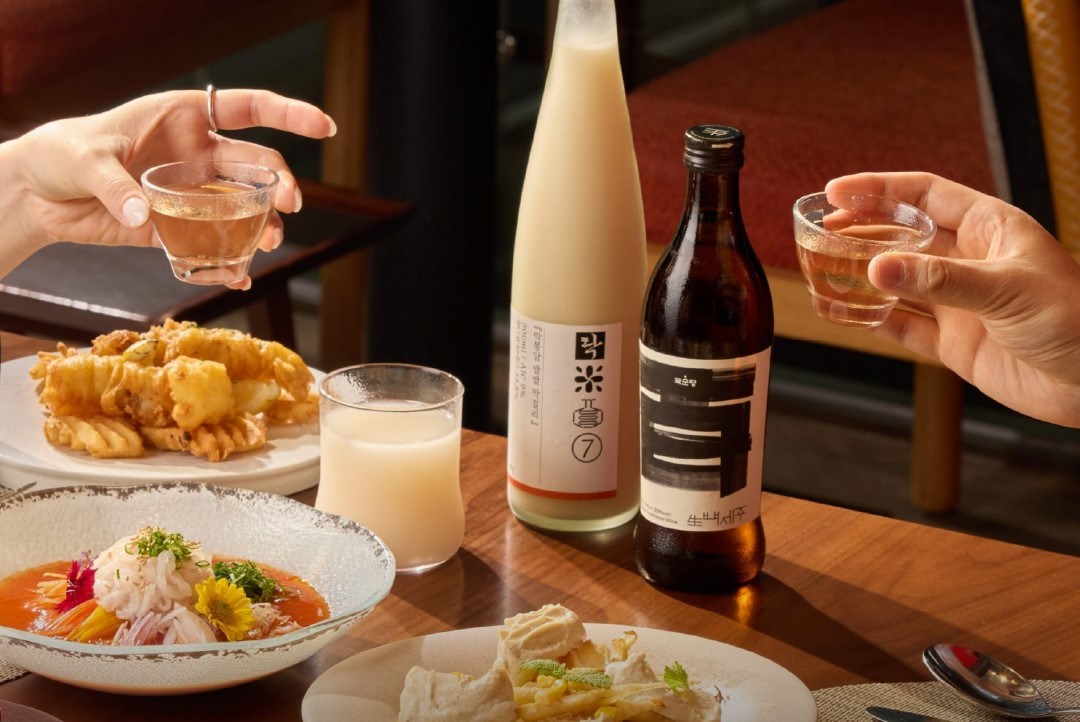
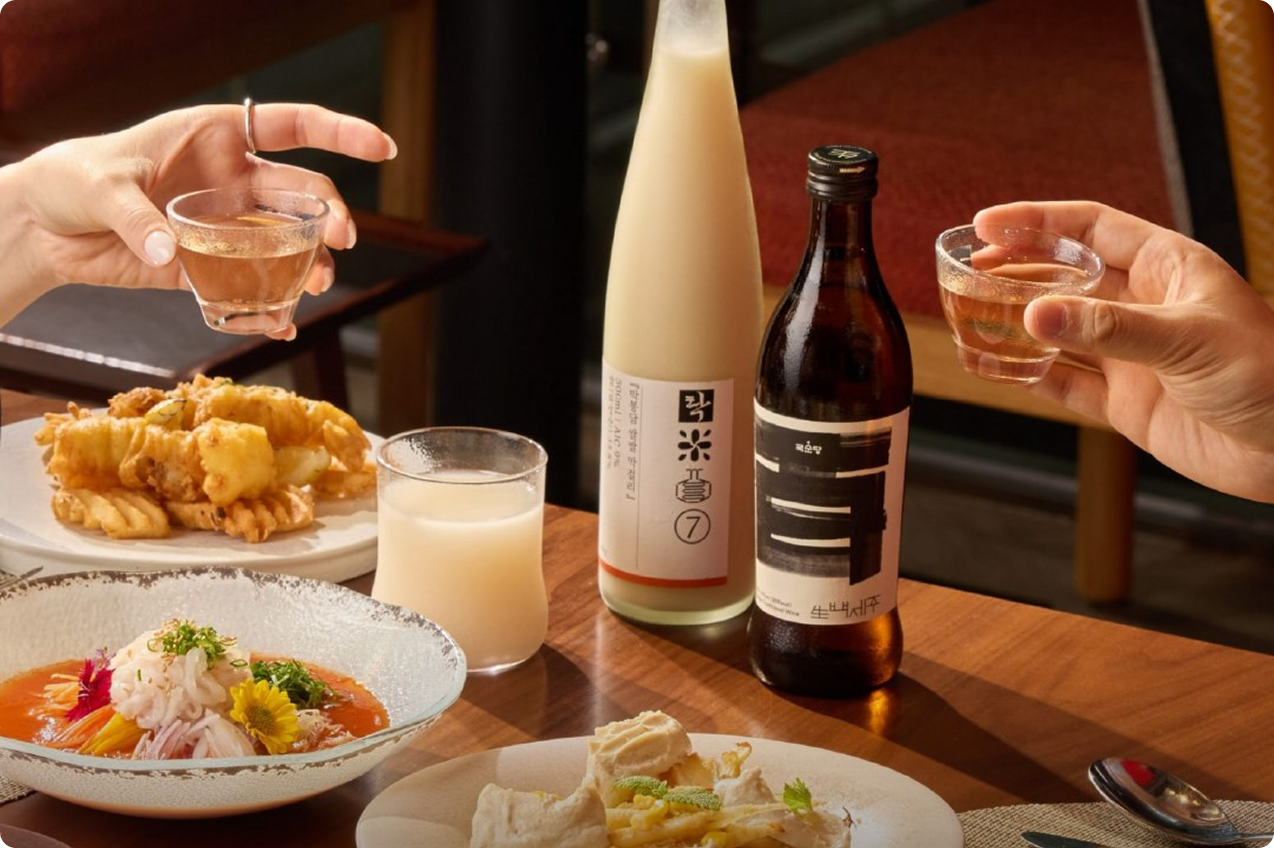
test12

diff --git a/css/test2.css b/css/test2.css
@@ -1,5 +1,7 @@
 @charset "UTF-8";
 
+@import url('https://fonts.googleapis.com/css2?family=Anek+Telugu:wght@800&display=swap');
+
 @font-face {
   font-family: 'ROH HOE-CHAN';
   src: url('https://cdn.jsdelivr.net/gh/projectnoonnu/noonfonts_20-10@1.0/ROEHOE-CHAN.woff') format('woff');
@@ -594,6 +596,8 @@ section[id] {
 .best_card_bekseju {
   left: 11.8%;
   top: 14.5%;
+  align-items: center;
+  padding-bottom: 0;
   background: var(--kooksoondang_orange);
   transform: rotate(-11.19deg);
 }
@@ -601,6 +605,8 @@ section[id] {
 .best_card_prebiotics {
   left: 48.8%;
   top: 15.1%;
+  align-items: center;
+  padding-bottom: 0;
   background: var(--kooksoondang_green);
   transform: rotate(8.77deg);
 }
@@ -608,6 +614,8 @@ section[id] {
 .best_card_banana {
   left: 85%;
   top: 17.7%;
+  align-items: center;
+  padding-bottom: 0;
   background: var(--card-banana-best);
   transform: rotate(-9.08deg);
 }
@@ -620,12 +628,30 @@ section[id] {
   transform: translateX(-50%);
   width: 90%;
   text-align: center;
-  font-weight: 700;
+  font-family: 'Anek Telugu', var(--font-Pretendard);
+  font-weight: 800;
   font-size: clamp(1.1rem, 1.9vw, 1.75rem);
   line-height: 0.95;
   letter-spacing: -0.02em;
   text-transform: uppercase;
   color: rgba(255, 255, 255, 0.3);
+}
+
+.best_card_bekseju .best_card_label,
+.best_card_prebiotics .best_card_label,
+.best_card_banana .best_card_label {
+  top: 50%;
+  transform: translate(-50%, -50%);
+  font-size: 70px;
+  text-align: center;
+}
+
+.best_card_prebiotics .best_card_label {
+  font-size: 60px;
+}
+
+.best_card_banana .best_card_label {
+  font-size: 45px;
 }
 
 .best_card_bottle {
@@ -635,6 +661,14 @@ section[id] {
   width: auto;
   object-fit: contain;
 }
+
+.best_card_bekseju .best_card_bottle,
+.best_card_prebiotics .best_card_bottle,
+.best_card_banana .best_card_bottle {
+  transform: scale(0.85);
+  transform-origin: center;
+}
+
 
 .best_card_shadow {
   position: absolute;
@@ -697,14 +731,38 @@ section[id] {
 }
 
 .marquee_track {
-  position: relative;
-  width: 100%;
+  display: flex;
+  flex: 0 0 auto;
+  align-items: center;
+  width: max-content;
   min-height: clamp(7rem, 8.25vw, 10.5rem);
+  animation: marquee_scroll 22s linear infinite;
+}
+
+/* 그룹 안쪽 간격과 그룹 끝 여백을 같게 두어 이어붙였을 때 간격이 일정하게 보임 */
+.marquee_group {
+  display: flex;
+  flex: 0 0 auto;
+  align-items: center;
+  gap: clamp(2rem, 4vw, 5rem);
+  padding-right: clamp(2rem, 4vw, 5rem);
+}
+
+.marquee:hover .marquee_track {
+  animation-play-state: paused;
+}
+
+/* 그룹 2개가 동일하므로 -50% 이동 시 이음매 없이 반복됨 */
+@keyframes marquee_scroll {
+  from {
+    transform: translateX(0);
+  }
+  to {
+    transform: translateX(-50%);
+  }
 }
 
 .marquee p {
-  position: absolute;
-  top: 50%;
   font-weight: 800;
   font-size: clamp(2.5rem, 5.7vw, 6.875rem);
   line-height: 1;
@@ -712,27 +770,18 @@ section[id] {
   text-transform: uppercase;
   color: var(--makgeolli_light2);
   white-space: nowrap;
-  transform: translateY(-50%);
-}
-
-.marquee p:first-child {
-  left: -0.5rem;
-  letter-spacing: -0.006em;
-}
-
-.marquee p:last-child {
-  left: 55.85%;
-  transform: translateY(-50%) scaleX(0.92);
-  transform-origin: left center;
 }
 
 .marquee img {
-  position: absolute;
-  top: 50%;
-  left: 46.8%;
   flex: 0 0 auto;
   width: clamp(4.5rem, 6.8vw, 8rem);
-  transform: translateY(calc(-50% - 6px)) rotate(-11.42deg);
+  transform: rotate(-11.42deg);
+}
+
+@media (prefers-reduced-motion: reduce) {
+  .marquee_track {
+    animation: none;
+  }
 }
 
 /* ---------- glass divider ---------- */

diff --git a/test2.html b/test2.html
@@ -85,7 +85,7 @@
                         <img class="best_card_bottle" src="asset/img/bekseju_bottle.png" alt="">
                     </div>
                     <div class="best_card best_card_prebiotics">
-                        <span class="best_card_label">100 Billion<br>Prebiotics<br>Makgeolli</span>
+                        <span class="best_card_label">100&nbsp;Billion<br>Prebiotics<br>Makgeolli</span>
                         <img class="best_card_shadow" src="asset/icon/ellipse_shadow_2.svg" alt="">
                         <img class="best_card_bottle" src="asset/img/prebiotics_bottle.png" alt="">
                     </div>
@@ -105,9 +105,16 @@
 
         <div class="marquee" aria-hidden="true">
             <div class="marquee_track">
-                <p>Brand History</p>
-                <img src="asset/icon/marquee_cup.svg" alt="">
-                <p>Kooksoondang</p>
+                <div class="marquee_group">
+                    <p>Brand History</p>
+                    <img src="asset/icon/marquee_cup.svg" alt="">
+                    <p>Kooksoondang</p>
+                </div>
+                <div class="marquee_group">
+                    <p>Brand History</p>
+                    <img src="asset/icon/marquee_cup.svg" alt="">
+                    <p>Kooksoondang</p>
+                </div>
             </div>
         </div>
 
